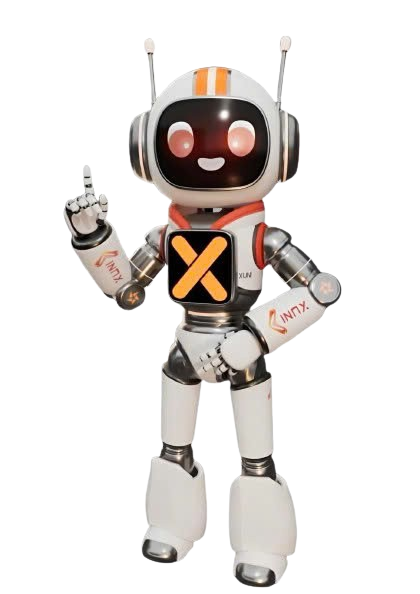
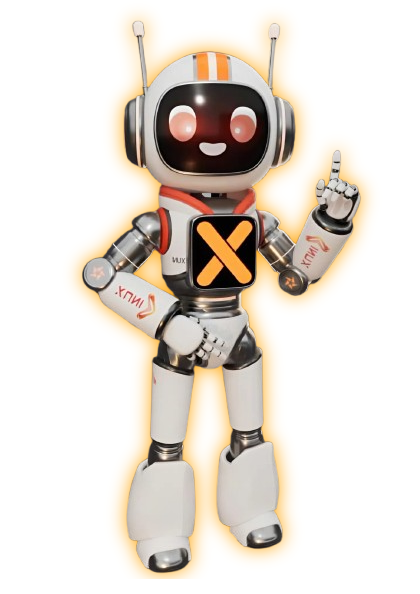
fix bug 3

diff --git a/src/components/HeroSection.jsx b/src/components/HeroSection.jsx
@@ -1,7 +1,6 @@
 import { FaArrowRightLong } from "react-icons/fa6";
-import heroThumbnail from "../assets/images/hero_thumbnail.png";
-import robotThumbnail from "../assets/images/robot-thumbnail.png";
-import robotLeftThumbnail from "../assets/images/a7654bdfd7ad60f339bc.png";
+import robotThumbnail from "../assets/images/robot-thumbnail-left.png";
+import robotLeftThumbnail from "../assets/images/robot-thumbnail.png";
 import heroBackground from "../assets/images/hero_section_bg.jpg";
 import heroImage from "../assets/images/hero_section_image.png";
 import StatsSection from "./StatsSection";
